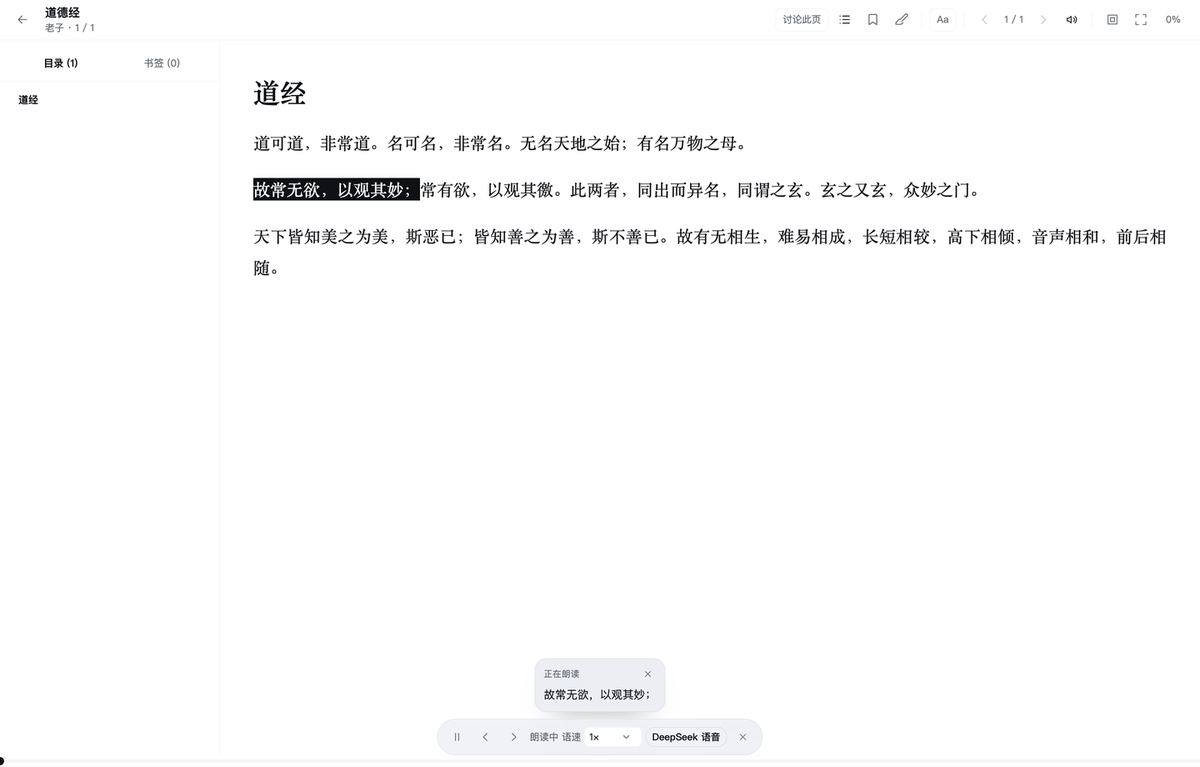
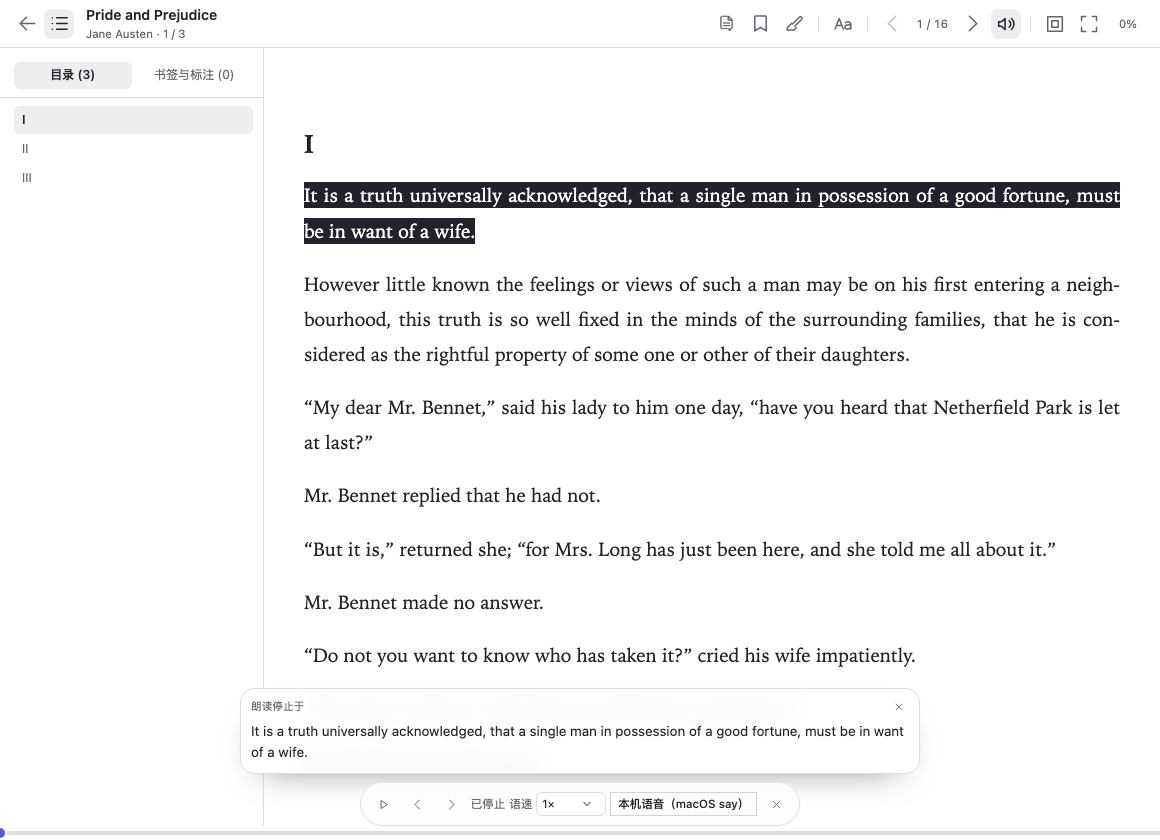
Refresh the 0.6.4 gallery and reading documentation

diff --git a/docs/GALLERY.md b/docs/GALLERY.md
@@ -1,8 +1,8 @@
 # Screenshots / 截图
 
-These 0.6.3 captures use a demo shelf of public-domain titles, a test DeepSeek key and a temporary read-aloud cache. No personal library, account or real API key appears in them.
+Captured with dsh-bookshelf 0.6.4 in an isolated local demo library. The reader shows the first three chapters of *Pride and Prejudice*. The Apple Books picker uses sample catalog records and the audio panels use the macOS system voice option.
 
-以下截图摄于 0.6.3，使用公版书演示书架、测试用 DeepSeek Key 和临时朗读缓存，不包含个人书库、账号或真实 API Key。
+截图来自 0.6.4 的独立本地演示书架。阅读器展示《傲慢与偏见》前三章，Apple Books 导入窗口使用示例条目，语音面板选用 macOS 系统音色。
 
 ## Shelf / 书架
 
@@ -18,13 +18,13 @@ The list view keeps the same search, sort and status rules, with progress and fi
 
 列表视图沿用搜索、排序与状态规则，进度和已读完状态显示在行内。
 
-## Read aloud and DeepSeek speech / 朗读与 DeepSeek 语音
+## Read aloud / 逐句朗读
 
-![Read aloud with DeepSeek speech](images/read-aloud.png)
+![Read aloud with a system voice](images/read-aloud.png)
 
-Opening the dock selects the current sentence immediately; the spoken sentence is inverted from the page palette, and the dock shows the active DeepSeek voice, speed and status.
+The dock highlights the selected sentence and shows its text, playback controls, speed and active voice.
 
-打开浮条会立即选中当前句；正在朗读的句子使用页面反色高亮，浮条显示当前 DeepSeek 音色、语速和状态。
+朗读浮条显示当前句、播放控件、语速与音色。页面上的反色高亮标出同一句正文。
 
 ![Speech settings](images/settings-speech.png)
 
@@ -36,9 +36,9 @@ The Read-aloud tab configures the backend, language-aware voice, speed, API fiel
 
 ![Whole-book audiobook dialog](images/audiobook.png)
 
-Generate audiobook estimates characters, sentences, duration, size and the DeepSeek bill before rendering the whole book on the Host.
+Review the character and sentence counts, estimated duration and file size before starting. The screenshot shows a local voice. Selecting DeepSeek adds its estimated cost.
 
-「生成整书语音」会先展示字数、句数、预计时长、体积和 DeepSeek 预估费用，再由 Host 在后台渲染整本书。
+开始生成前可查看字数、句数、预计时长和文件体积。图中选用了本机音色，选择 DeepSeek 时还会显示预计费用。
 
 ## Page discussion / 页面讨论
 
@@ -66,19 +66,9 @@ In 0.6.4 the EPUB page follows the DSH theme. Open Aa to set the reading font, t
 
 ## Demo covers / 演示封面
 
-The demo shelf uses real editions. English covers come from [Standard Ebooks](https://standardebooks.org/), whose cover art is in the public domain in the United States. The three Chinese covers are period scans from Wikimedia Commons:
+The covers and the Austen excerpt come from Standard Ebooks. The project publishes its editions and cover artwork for public-domain use in the United States. [Standard Ebooks](https://standardebooks.org/) · [Pride and Prejudice](https://standardebooks.org/ebooks/jane-austen/pride-and-prejudice)
 
-演示书架使用真实书籍封面。英文封面来自 [Standard Ebooks](https://standardebooks.org/)，其封面艺术在美国属于公有领域。三本中文书的封面为 Wikimedia Commons 上的古籍扫描：
-
-| Book | Source | License |
-|---|---|---|
-| 唐诗三百首 | [Three Hundred Tang Poems (1).jpg](https://commons.wikimedia.org/wiki/File:Three_Hundred_Tang_Poems_%281%29.jpg) | Public domain |
-| 道德经 | [DaoDeJingWangBi.jpg](https://commons.wikimedia.org/wiki/File:DaoDeJingWangBi.jpg) | Public domain |
-| 宋词三百首 | [稿本宋词三百首封面題簽.png](https://commons.wikimedia.org/wiki/File:%E7%A8%BF%E6%9C%AC%E5%AE%8B%E8%AF%8D%E4%B8%89%E7%99%BE%E9%A6%96%E5%B0%81%E9%9D%A2%E9%A1%8C%E7%AD%BE.png) | CC BY-SA 4.0 (Wikimedia Commons contributor) |
-
-The Chinese scans are historical editions, so their title slips keep the original lettering. The shelf UI and book text shown in the screenshots use Simplified Chinese.
-
-中文封面为古籍扫描，书名签保留原刻字形；截图中的书架界面与正文均为简体中文。
+本组封面与《傲慢与偏见》节选取自 Standard Ebooks 的公版版本。[Standard Ebooks 公版说明](https://standardebooks.org/about)
 
 ## Social preview / 社交预览
 
